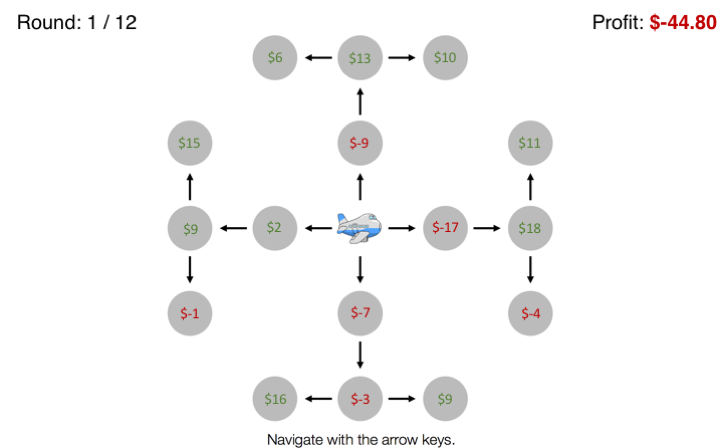
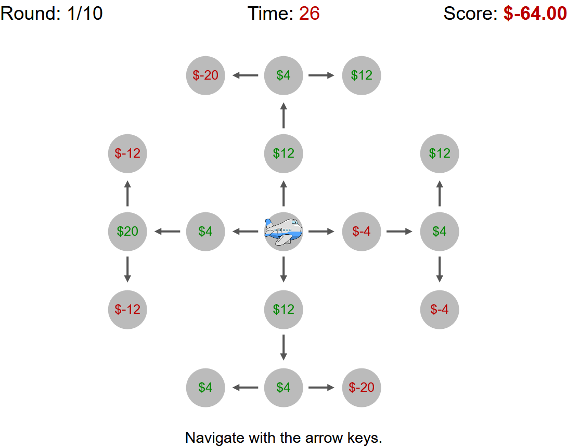
updated instruction images to reflect change in cost

diff --git a/experiments/exp1/static/js/init.js b/experiments/exp1/static/js/init.js
@@ -1,4 +1,4 @@
-// Generated by CoffeeScript 1.12.3
+// Generated by CoffeeScript 1.12.6
 var COST_LEVEL, DEBUG, DEMO, IVs, PARAMS, PRType, RETURN_TIME, SHOW_PARTICIPANT_DATA, STAGE1, STAGE2, condition, conditions, experiment_nr, frequency, i, infoCost, j, k, l, len, len1, len2, len3, message, messageTypes, nrConditions, nrDelays, nrInfoCosts, nrMessages, ref, ref1, ref2, workerId;
 
 DEBUG = false;
@@ -13,7 +13,7 @@ if (DEBUG) {
 
 if (mode === "{{ mode }}") {
   DEMO = true;
-  condition = 4;
+  condition = 6;
   workerId = ['debugFRED'];
 }
 

diff --git a/experiments/exp1/static/js/webppl-interface.js b/experiments/exp1/static/js/webppl-interface.js
@@ -1,4 +1,4 @@
-// Generated by CoffeeScript 1.12.3
+// Generated by CoffeeScript 1.12.6
 var FUNCTIONS, callWebppl, startWebppl;
 
 FUNCTIONS = "{\n  initialize() {\n    globalStore.PRinfo = makePRinfo(globalStore.weights);\n  },\n  getPRinfo(arg) {\n    var PRinfo = globalStore.PRinfo;\n    return PRinfo(arg)\n  }\n}";

diff --git a/experiments/exp1/static/js/utils.js b/experiments/exp1/static/js/utils.js
@@ -1,4 +1,4 @@
-// Generated by CoffeeScript 1.12.3
+// Generated by CoffeeScript 1.12.6
 var assert, check, checkObj, checkWindowSize, converter, deepLoadJson, deepMap, delay, fmtMoney, format_date, format_time, getTime, img, loadJson, mapObject, markdown, mean, reformatTrial, sum, zip,
   slice = [].slice;
 

diff --git a/experiments/exp1/static/js/jspsych-delay.js b/experiments/exp1/static/js/jspsych-delay.js
@@ -1,4 +1,4 @@
-// Generated by CoffeeScript 1.12.3
+// Generated by CoffeeScript 1.12.6
 jsPsych.plugins['delay'] = (function() {
   var plugin;
   plugin = {

diff --git a/experiments/exp1/static/js/jspsych-mouselab-mdp.js b/experiments/exp1/static/js/jspsych-mouselab-mdp.js
@@ -1,4 +1,4 @@
-// Generated by CoffeeScript 1.12.3
+// Generated by CoffeeScript 1.12.6
 
 /*
 jspsych-mouselab-mdp.coffee

diff --git a/experiments/exp1/static/js/jspsych-plane.js b/experiments/exp1/static/js/jspsych-plane.js
@@ -1,4 +1,4 @@
-// Generated by CoffeeScript 1.12.3
+// Generated by CoffeeScript 1.12.6
 
 /*
 jspsych-plane.coffee

diff --git a/experiments/exp1/static/js/experiment.js b/experiments/exp1/static/js/experiment.js
@@ -1,4 +1,4 @@
-// Generated by CoffeeScript 1.12.3
+// Generated by CoffeeScript 1.12.6
 
 /*
 experiment.coffee
